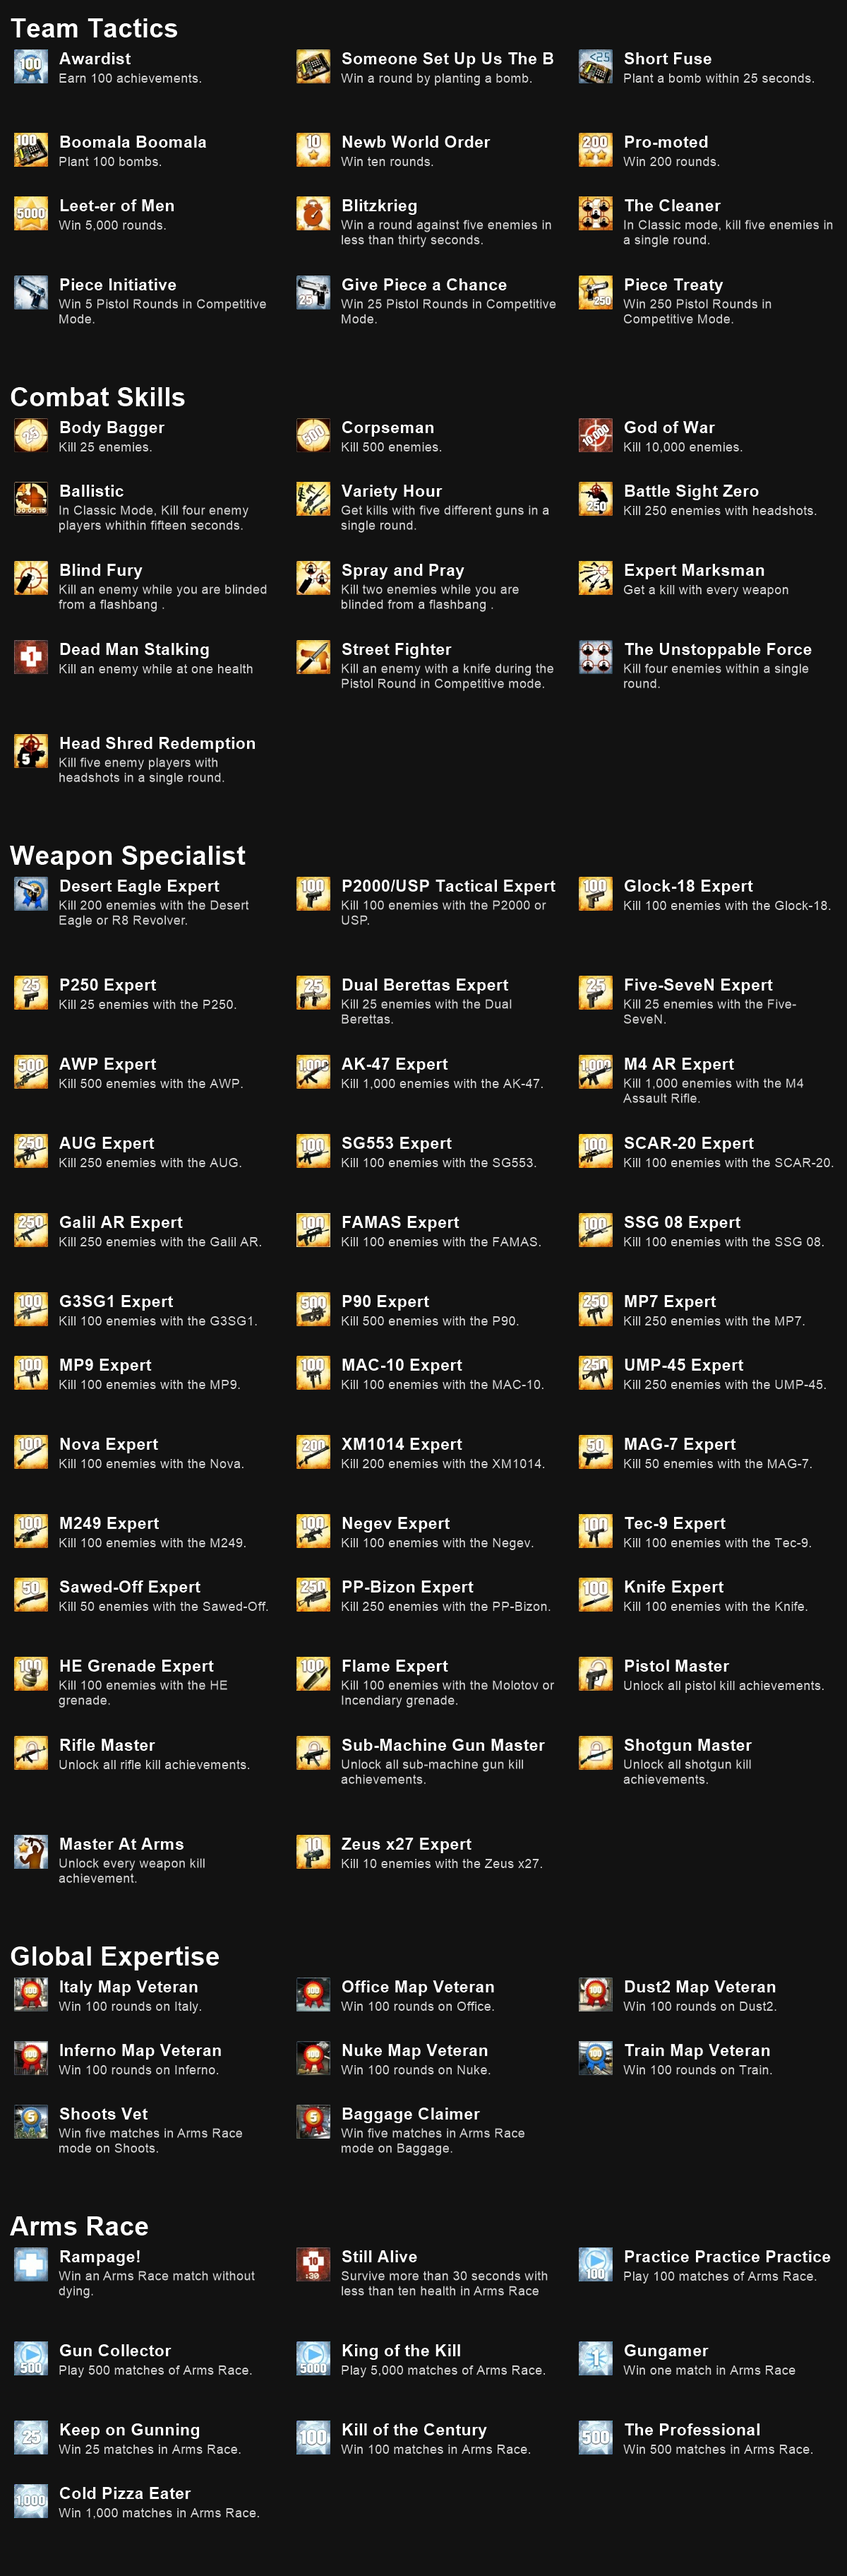
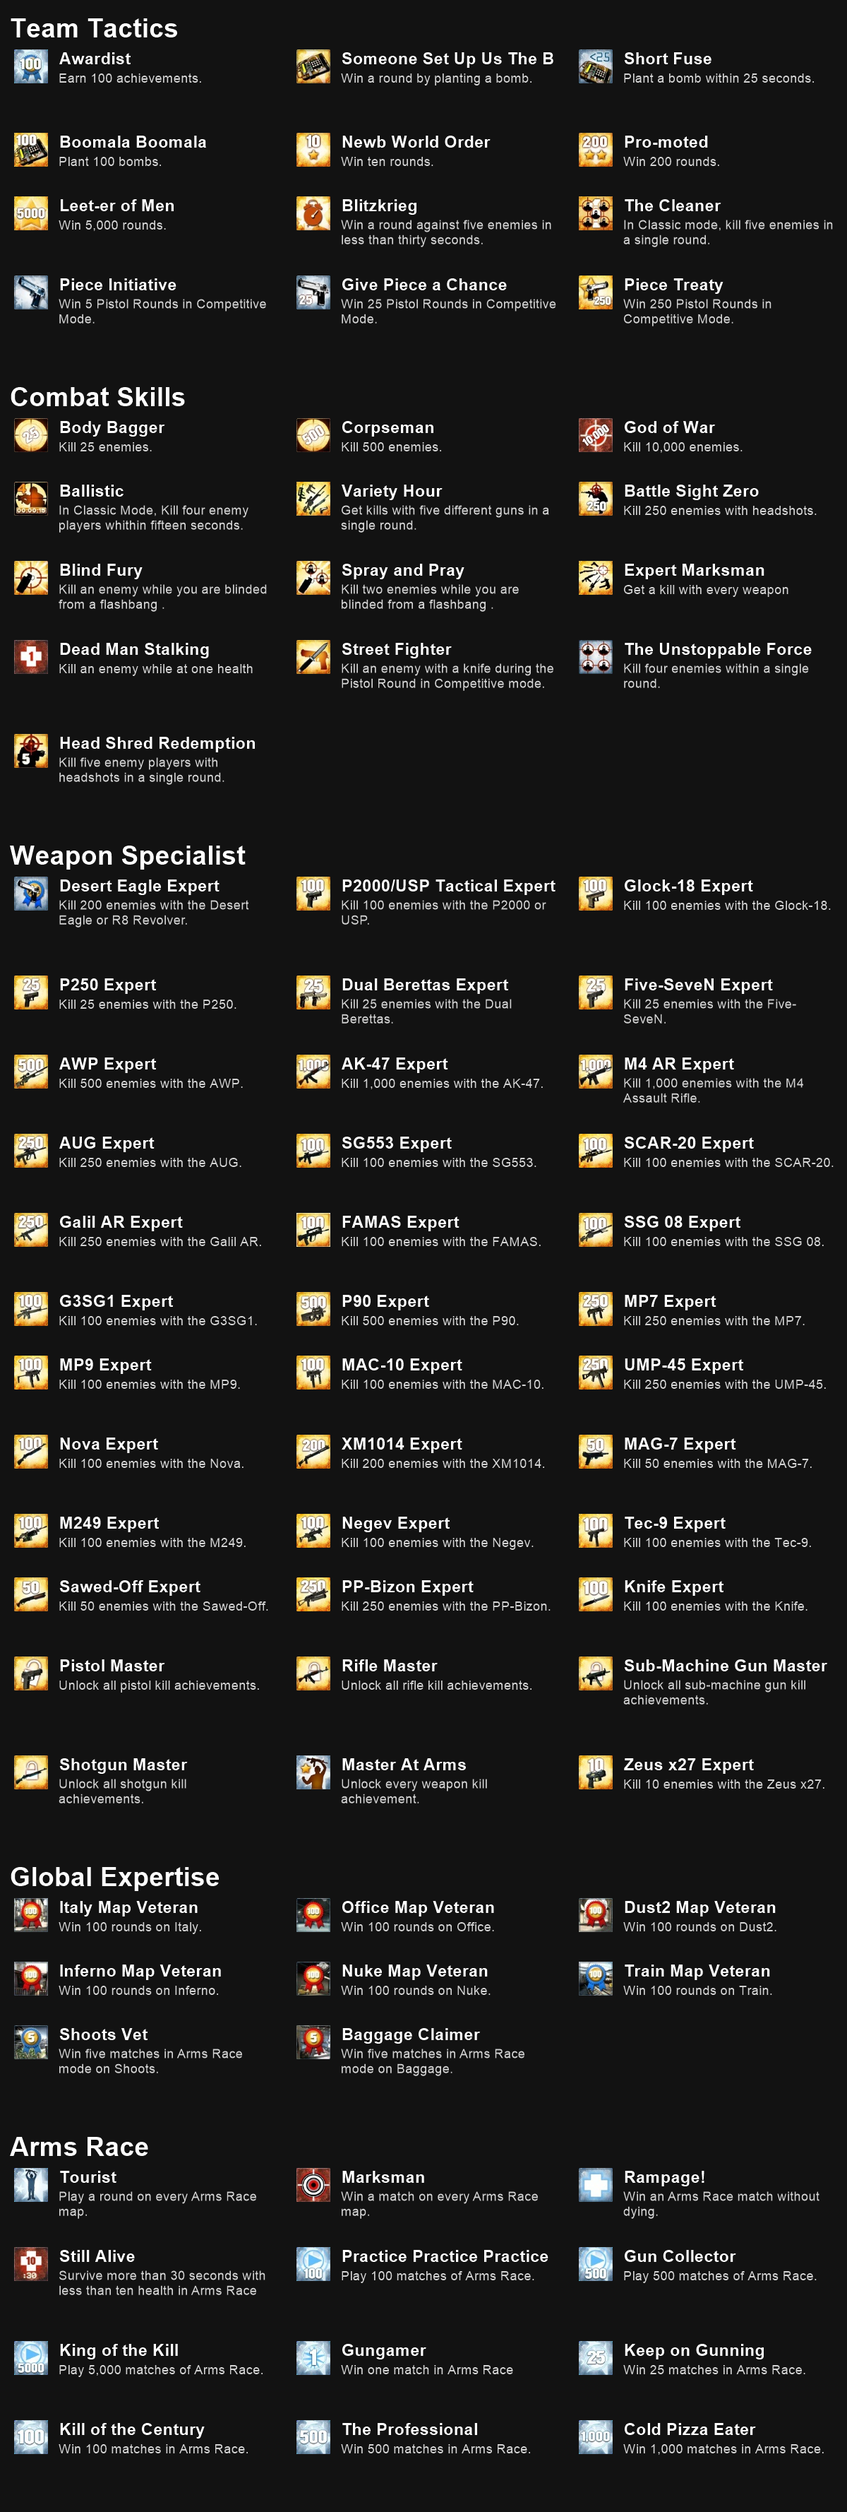
Tourist & Marksman

diff --git a/CS2Achievements/Achievements.cs b/CS2Achievements/Achievements.cs
@@ -254,8 +254,8 @@ public static class Achievements
 		new () { Name = "Sawed-Off Expert", Description = "Kill 50 enemies with the Sawed-Off.", MaxProgress = 50, Category = Category.WeaponSpecialist, OnEvent = Event.KilledPlayer, Filters = [WithWeapon("weapon_sawedoff")] },
 		new () { Name = "PP-Bizon Expert", Description = "Kill 250 enemies with the PP-Bizon.", MaxProgress = 250, Category = Category.WeaponSpecialist, OnEvent = Event.KilledPlayer, Filters = [WithWeapon("weapon_bizon")] },
 		new () { Name = "Knife Expert", Description = "Kill 100 enemies with the Knife.", MaxProgress = 100, Category = Category.WeaponSpecialist, OnEvent = Event.KilledPlayer, Filters = [WithAnyOfWeapons("weapon_knife", "weapon_knife_t")] },
-		new () { Name = "HE Grenade Expert", Description = "Kill 100 enemies with the HE grenade.", MaxProgress = 100, Category = Category.WeaponSpecialist, OnEvent = Event.KilledPlayer, Filters = [WithWeapon("weapon_hegrenade")] },
-		new () { Name = "Flame Expert", Description = "Kill 100 enemies with the Molotov or Incendiary grenade.", MaxProgress = 100, Category = Category.WeaponSpecialist, OnEvent = Event.KilledPlayer, Filters = [WithAnyOfWeapons("weapon_molotov", "weapon_incgrenade")] },
+		// new () { Name = "HE Grenade Expert", Description = "Kill 100 enemies with the HE grenade.", MaxProgress = 100, Category = Category.WeaponSpecialist, OnEvent = Event.KilledPlayer, Filters = [WithWeapon("weapon_hegrenade")] },
+		// new () { Name = "Flame Expert", Description = "Kill 100 enemies with the Molotov or Incendiary grenade.", MaxProgress = 100, Category = Category.WeaponSpecialist, OnEvent = Event.KilledPlayer, Filters = [WithAnyOfWeapons("weapon_molotov", "weapon_incgrenade")] },
 		// new () { Name = "Premature Burial", Description = "Kill an enemy with a grenade after dying.", MaxProgress = 1, Category = Category.WeaponSpecialist, OnEvent = Event.KilledPlayer, Filters = [WithWeapon("weapon_hegrenade"), WithPlayerHealth(0)] },
 		new () { Name = "Pistol Master", Description = "Unlock all pistol kill achievements.", Category = Category.WeaponSpecialist, RequiredAchievements = ["Desert Eagle Expert", "P2000/USP Tactical Expert", "Glock-18 Expert", "P250 Expert", "Dual Berettas Expert", "Five-SeveN Expert", "Tec-9 Expert"] },
 		new () { Name = "Rifle Master", Description = "Unlock all rifle kill achievements.", Category = Category.WeaponSpecialist, RequiredAchievements = ["AK-47 Expert", "M4 AR Expert", "AUG Expert", "SG553 Expert", "SCAR-20 Expert", "Galil AR Expert", "FAMAS Expert", "SSG 08 Expert", "G3SG1 Expert", "AWP Expert"] },
@@ -280,9 +280,9 @@ public static class Achievements
 		// new () { Name = "Bank On It", Description = "Win five matches on Bank.", MaxProgress = 5, Category = Category.GlobalExpertise },
 		// new () { Name = "Shorttrain Map Veteran", Description = "Win five matches on Shorttrain.", MaxProgress = 5, Category = Category.GlobalExpertise },
 		// new () { Name = "A World of Pane", Description = "Shoot out 14 windows in a single round on Office.", MaxProgress = 1, Category = Category.GlobalExpertise },
-		// new () { Name = "Tourist", Description = "Play a round on every Arms Race and Demolition map.", MaxProgress = 1, Category = Category.ArmsRaceDemolition },
+		new () { Name = "Tourist", Description = "Play a round on every Arms Race map."/* and Demolition map."*/, MaxProgress = 1, Category = Category.ArmsRaceDemolition, Items = ["ar_baggage", "ar_shoots", "ar_pool_day"] },
 		// new () { Name = "Denied!", Description = "Kill a player who is on gold knife level in Arms Race mode.", MaxProgress = 1, Category = Category.ArmsRaceDemolition },
-		// new () { Name = "Marksman", Description = "Win a match on every Arms Race and Demolition map.", MaxProgress = 1, Category = Category.ArmsRaceDemolition },
+		new () { Name = "Marksman", Description = "Win a match on every Arms Race map." /*and Demolition map."*/, MaxProgress = 1, Category = Category.ArmsRaceDemolition, Items = ["ar_baggage", "ar_shoots", "ar_pool_day"] },
 		new () { Name = "Rampage!", Description = "Win an Arms Race match without dying.", MaxProgress = 1, Category = Category.ArmsRaceDemolition, CheckGroup = "ArmsRaceWin", Filters = [OnArmsRace(), OnlyKnife(), SurvivedRound()] },
 		// new () { Name = "FIRST!", Description = "Be the first player to get a kill in an Arms Race or Demolition match.", MaxProgress = 1, Category = Category.ArmsRaceDemolition },
 		// new () { Name = "One Shot One Kill", Description = "Kill three consecutive players using the first bullet of your gun in Arms Race mode.", MaxProgress = 1, Category = Category.ArmsRaceDemolition },
@@ -296,10 +296,10 @@ public static class Achievements
 		// new () { Name = "Knife on Knife", Description = "Kill an enemy who is on gold knife level with your own knife in Arms Race mode.", MaxProgress = 1, Category = Category.ArmsRaceDemolition },
 		// new () { Name = "Level Playing Field", Description = "Kill an enemy who is on gold knife level with a sub-machine gun in Arms Race Mode.", MaxProgress = 1, Category = Category.ArmsRaceDemolition },
 		new () { Name = "Still Alive", Description = "Survive more than 30 seconds with less than ten health in Arms Race"/* or Demolition mode."*/, MaxProgress = 1, Category = Category.ArmsRaceDemolition },
-		new () { Name = "Practice Practice Practice", Description = "Play 100 matches of Arms Race." /* or Demolition mode." */, MaxProgress = 100, Category = Category.ArmsRaceDemolition, OnEvent = Event.GameOver, Filters = [OnArmsRace()] },
+		new () { Name = "Practice Practice Practice", Description = "Play 100 matches of Arms Race." /* or Demolition mode." */, MaxProgress = 100, Category = Category.ArmsRaceDemolition, OnEvent = Event.GameOver, Filters = [OnArmsRace()], OnIncrement = () => { AddUniqueItem("Tourist", CurrentMap); AddUniqueItem("Tourist", CurrentMap.EndsWith("_night") ? CurrentMap[..^6] : CurrentMap + "_night"); } },
 		new () { Name = "Gun Collector", Description = "Play 500 matches of Arms Race." /* or Demolition mode." */, MaxProgress = 500, Category = Category.ArmsRaceDemolition, OnEvent = Event.GameOver, Filters = [OnArmsRace()], Prerequisite = "Practice Practice Practice" },
 		new () { Name = "King of the Kill", Description = "Play 5,000 matches of Arms Race." /* or Demolition mode." */, MaxProgress = 5_000, Category = Category.ArmsRaceDemolition, OnEvent = Event.GameOver, Filters = [OnArmsRace()], Prerequisite = "Gun Collector" },
-		new () { Name = "Gungamer", Description = "Win one match in Arms Race"/* or Demolition mode."*/, MaxProgress = 1, Category = Category.ArmsRaceDemolition, CheckGroup = "ArmsRaceWin", Filters = [OnArmsRace(), OnlyKnife()] },
+		new () { Name = "Gungamer", Description = "Win one match in Arms Race"/* or Demolition mode."*/, MaxProgress = 1, Category = Category.ArmsRaceDemolition, CheckGroup = "ArmsRaceWin", Filters = [OnArmsRace(), OnlyKnife()], OnIncrement = () => { AddUniqueItem("Marksman", CurrentMap); AddUniqueItem("Marksman", CurrentMap.EndsWith("_night") ? CurrentMap[..^6] : CurrentMap + "_night"); }  },
 		new () { Name = "Keep on Gunning", Description = "Win 25 matches in Arms Race."/* or Demolition mode."*/, MaxProgress = 25, Category = Category.ArmsRaceDemolition, CheckGroup = "ArmsRaceWin", Filters = [OnArmsRace(), OnlyKnife()], Prerequisite = "Gungamer" },
 		new () { Name = "Kill of the Century", Description = "Win 100 matches in Arms Race."/* or Demolition mode."*/, MaxProgress = 100, Category = Category.ArmsRaceDemolition, CheckGroup = "ArmsRaceWin", Filters = [OnArmsRace(), OnlyKnife()], Prerequisite = "Keep on Gunning" },
 		new () { Name = "The Professional", Description = "Win 500 matches in Arms Race."/* or Demolition mode."*/, MaxProgress = 500, Category = Category.ArmsRaceDemolition, CheckGroup = "ArmsRaceWin", Filters = [OnArmsRace(), OnlyKnife()], Prerequisite = "Kill of the Century" },
@@ -519,7 +519,7 @@ public static class Achievements
 			if (achievement.Complete) return;
 
 			if (achievement.Items != null && !achievement.Items.Contains(item)) {
-				Logger.Warning($"Item '{item}' is not in the required set for achievement '{achievement.Name}'.");
+				// Logger.Warning($"Item '{item}' is not in the required set for achievement '{achievement.Name}'.");
 				return;
 			}
 
